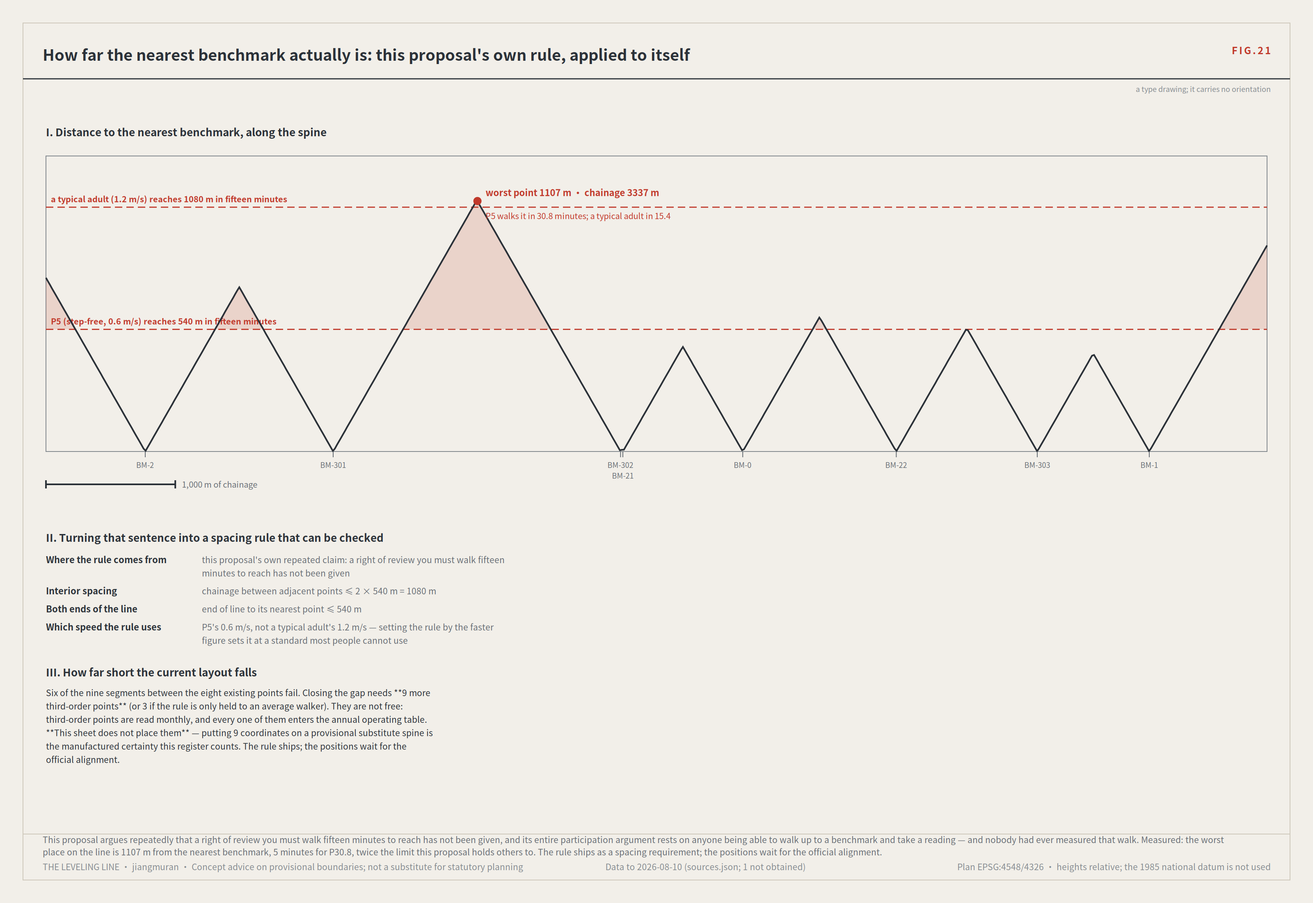
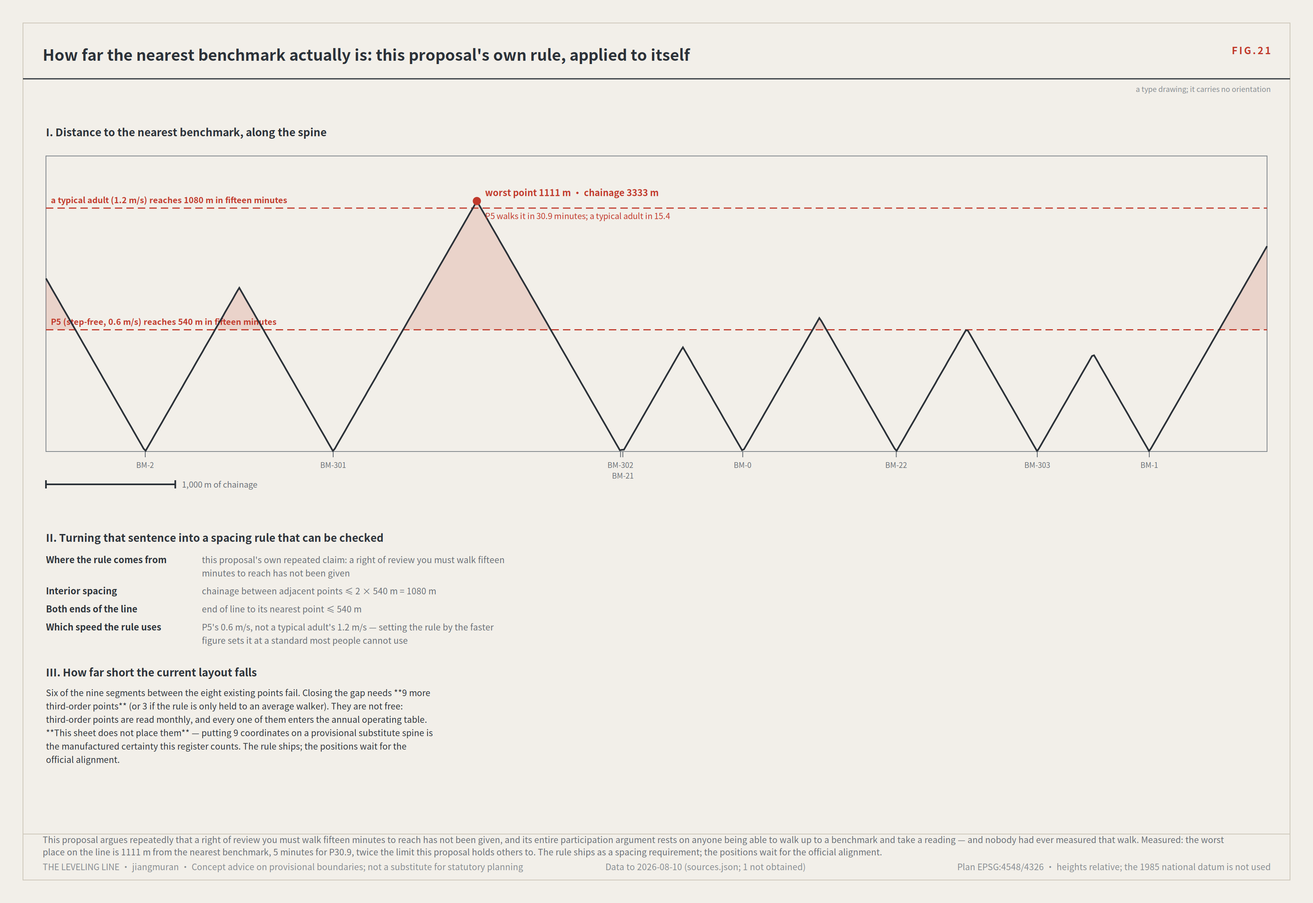
the number this proposal's self-criticism rests on was read off a drawing
FIG.21's headline — the worst walk on the line to the nearest benchmark —
said 1,107 m. FIG.23, built from the same geometry, said 1,111 m. One
measurement, two numbers, and I only saw it by putting the two sheets side
by side.

**FIG.21's was the wrong one.** It took the maximum off the sampled curve
drawn for the profile: 600 samples across 9,443 m is 15.7 m of resolution,
and the peak sits between two of them. The exact answer is analytic — on a
line, the point furthest from every benchmark is either the midpoint of an
interior gap or an end — and it is 1,111.2 m.

Four metres is not the point. **This is the number the whole
self-criticism rests on**, the one that says this proposal fails its own
fifteen-minute rule by a factor of two, and it was read off a drawing
rather than computed, in a package whose central claim is that a figure
nobody can recompute is not evidence. It had spread: two places in the
prose, a row in the drawing index, three PR descriptions.

And the direction is worth recording. **Sampling can only understate a
peak**, so the error made this proposal's self-criticism read slightly
gentler than the truth.

Computed analytically now, swept everywhere, P5's time corrected 30.8 →
30.9 min. FIG.23 asserts it agrees with FIG.21 within half a metre and
refuses the build otherwise — the two sheets found each other's error, so
they now watch each other.

BUILD OK, preflight PASS.

Changed region(s): [[0.3438, 0.1855, 0.5, 0.2473], [0.0312, 0.34, 0.2188, 0.3709], [0.0312, 0.2164, 0.2188, 0.2473]]

diff --git a/submissions/jiangmuran/jingzhang-leveling-line/report/proposal.en.html b/submissions/jiangmuran/jingzhang-leveling-line/report/proposal.en.html
@@ -118,7 +118,7 @@ code {
 <p><strong>Four weeks later, back at BM-0.</strong> The maximum divergence between the three stations is this cycle&#x27;s closure error f. It exceeds this scenario&#x27;s tolerance F. Under rule 4 (defined below in full), <strong>the whole route returns for re-survey and the scenario drops to its non-AI equivalent</strong> — the counter posts the paper pathway and the human referral, and service does not stop. Under rule 5, <strong>the worst-performing station may not simply be corrected on its own.</strong></p>
 <p><strong>What she can do.</strong> She may require one re-survey of the judgement that affected her, and the result is published alongside the original reading, anonymised. That right sits at the third-order point nearest her home: <strong>putting the right of review in a specialist institution fifteen minutes away is the same as not granting it.</strong></p>
 <figure class="proposal-figure"><img src="../assets/figures/reach.en.png" alt="FIG.21 How far the nearest benchmark actually is"><figcaption>FIG.21 How far the nearest benchmark actually is</figcaption></figure>
-<p><strong>That sentence had never been turned on this proposal.</strong> FIG.21 measures the walk along the spine: the worst place on the line is 1,107 m from the nearest benchmark, 30.8 minutes for P5, and six of nine segments fail — <strong>on this rule, this proposal does not meet the standard it holds others to</strong>.</p>
+<p><strong>That sentence had never been turned on this proposal.</strong> FIG.21 measures the walk along the spine: the worst place on the line is 1,111 m from the nearest benchmark, 30.9 minutes for P5, and six of nine segments fail — <strong>on this rule, this proposal does not meet the standard it holds others to</strong>.</p>
 <p><strong>What the reading board says.</strong> On the L2 closure stele this scenario is marked in datum red with the date it was sent back. The device is allowed to look bad: <strong>a civic instrument willing to display its own failures builds more trust than any success narrative.</strong></p>
 <p><strong>How long the way back takes.</strong> Not &quot;fix it and relaunch&quot;. The whole route is re-measured, two consecutive cycles must fall within tolerance because once may be luck, the cause is published, and for an F1 scenario all four review categories must agree unanimously. Afterwards the cycle is halved until two further passes. <strong>Exit is easy and return is slow, deliberately.</strong></p>
 <p>At no point in that day does she need to understand the words &quot;closure error&quot;. She needs to know two things: <strong>that her question was written down</strong>, and <strong>that if the answers do not agree, what stops is the service — not her treatment.</strong></p>
@@ -594,7 +594,7 @@ code {
 <p><strong>One year of running it, costed — all eight benchmarks, row by row.</strong></p>
 <p>Sessions per year are converted from the re-survey cadence each point declares in <code>spatial.json</code>, not typed into this table; hours = sessions × people × the per-session band; money = hours × the rate band plus consumables.</p>
 <div class="proposal-table"><table><thead><tr><th>Benchmark</th><th>Cadence</th><th>Sessions/yr</th><th>Convener</th><th>Paid hours (priced)</th><th>Volunteer hours (unpriced)</th><th>Consumables (CNY/yr)</th><th>Budget line</th></tr></thead><tbody><tr><td>BM-0</td><td>datum</td><td>1</td><td>the implementing body with a licensed surveying unit</td><td>15–24</td><td>—</td><td>600–1500</td><td>municipal facility maintenance — survey and monument upkeep</td></tr><tr><td>BM-1</td><td>first</td><td>1</td><td>the implementing body with a licensed surveying unit</td><td>12–18</td><td>—</td><td>500–1200</td><td>municipal facility maintenance — survey and monument upkeep</td></tr><tr><td>BM-2</td><td>first</td><td>1</td><td>the implementing body with a licensed surveying unit</td><td>12–18</td><td>—</td><td>500–1200</td><td>municipal facility maintenance — survey and monument upkeep</td></tr><tr><td>BM-21</td><td>second</td><td>4</td><td>the park operator</td><td>20–32</td><td>20–32</td><td>300–700</td><td>park operations — scenario open days and tech services</td></tr><tr><td>BM-22</td><td>second</td><td>4</td><td>the park operator</td><td>20–32</td><td>20–32</td><td>300–700</td><td>park operations — scenario open days and tech services</td></tr><tr><td>BM-301</td><td>third</td><td>12</td><td>the sub-district office or residents&#x27; committee</td><td>18–30</td><td>36–60</td><td>200–500</td><td>community governance service procurement — sub-district</td></tr><tr><td>BM-302</td><td>third</td><td>12</td><td>the sub-district office or residents&#x27; committee</td><td>18–30</td><td>36–60</td><td>200–500</td><td>community governance service procurement — sub-district</td></tr><tr><td>BM-303</td><td>third</td><td>12</td><td>the sub-district office or residents&#x27; committee</td><td>18–30</td><td>36–60</td><td>200–500</td><td>community governance service procurement — sub-district</td></tr><tr><td><strong>Total</strong></td><td>—</td><td><strong>47</strong></td><td>—</td><td><strong>133–214</strong></td><td><strong>148–244</strong></td><td><strong>2,800–6,800</strong></td><td>—</td></tr></tbody></table></div>
-<p>The table above prices the network <strong>as laid out</strong>. FIG.21 measures the worst walk on the line at 1,107 m — 30.8 minutes for P5 — and finds six of nine segments failing this proposal&#x27;s own fifteen-minute rule; closing it needs nine more third-order points. <strong>That is not the same table</strong>: a compliant network costs the following again, on the same model. Letting the as-laid-out figure stand in for the compliant one is the substitution this package would flag in someone else&#x27;s.</p>
+<p>The table above prices the network <strong>as laid out</strong>. FIG.21 measures the worst walk on the line at 1,111 m — 30.9 minutes for P5 — and finds six of nine segments failing this proposal&#x27;s own fifteen-minute rule; closing it needs nine more third-order points. <strong>That is not the same table</strong>: a compliant network costs the following again, on the same model. Letting the as-laid-out figure stand in for the compliant one is the substitution this package would flag in someone else&#x27;s.</p>
 <div class="proposal-table"><table><thead><tr><th>To close the gap</th><th></th></tr></thead><tbody><tr><td>More third-order points</td><td>9</td></tr><tr><td>More re-surveys a year</td><td>108</td></tr><tr><td>More paid hours</td><td>162–270</td></tr><tr><td>More annual cost</td><td>CNY 21,240–74,700</td></tr></tbody></table></div>
 <p><strong>Volunteer hours are counted and not priced.</strong> Pricing them would inflate a cost nobody pays; omitting them would pretend they are free. They are the hours this mechanism asks of residents each year, and that is a quantity to see before agreeing to it.</p>
 <p>At CNY 120–260 per hour, paid labour runs CNY 15,960–55,640 a year, or <strong>CNY 18,760–62,440 a year</strong> including consumables — all bands, none of them point estimates.</p>
@@ -753,7 +753,7 @@ code {
 <p><strong>The forms these sheets ship in.</strong> The twenty-one single sheets are also composed into two finished products: <code>drawings/a3-booklet.pdf</code>, an A3 booklet to be read page by page, and <code>drawings/a0-boards.pdf</code>, A0 boards to be read standing up. Two renderings of the text open directly: <code>report/proposal.html</code> is this document as a web page, and <code>visual/index.html</code> is a visual index threading the shipped structured data together; <code>report/narrative.md</code> is a continuous narrative without the tables and gate records, for a reader who wants only the argument. Two data files behind the drawings ship as well: <code>visual/assets/personas.json</code> defines the nine personas and makes every <code>P</code> number in the prose and the scenario cards assertable one by one, and <code>visual/assets/score_correlates.json</code> holds this proposal&#x27;s own statistics on what correlates with score across the field. <strong>Listing them is not housekeeping: a finished product the prose never names is one nobody has been told exists.</strong></p>
 <p>&lt;!-- FIGINDEX:BEGIN --&gt;</p>
 <p>There are 24 sheets, numbered FIG.00 to FIG.23. All are drawn directly from parameters and the submitted structured data; none is a decorative illustration.</p>
-<div class="proposal-table"><table><thead><tr><th>Sheet</th><th>Content</th><th>What to read on it</th></tr></thead><tbody><tr><td>FIG.00</td><td>The leveling line: a city that publishes its own error</td><td>The whole proposal as one line: that red height difference is the closure error, and it is the only thing this proposal asks to be trusted on</td></tr><tr><td>FIG.01</td><td>Overall concept and site cross-check</td><td><strong>The red line</strong> — 412.5 m between the inferred boundary and the surveyed park; the spine, core nodes, seven-class land-use partition and official/provisional status all on one sheet</td></tr><tr><td>FIG.02</td><td>Evidence chain and package: a leveling circuit not yet closed</td><td>The red gap at the left of the circuit is the closure error; the three reading cards below are the measurement of this call itself</td></tr><tr><td>FIG.03</td><td>Three scope levels and network orders</td><td>The nesting of the three levels, and the right-hand column of values this proposal deliberately does not give</td></tr><tr><td>FIG.04</td><td>Three key areas and benchmark layout</td><td>Laid out horizontally per alignment-sheet convention; read the K0–K9 chainage and the positions of the eight tiered points</td></tr><tr><td>FIG.05</td><td>Walking, blue-green and connecting routes</td><td>The direction and run of the two connecting routes, and the tolerance classes at lower right</td></tr><tr><td>FIG.06</td><td>Recomputed metrics and the field census</td><td>The distinction between the three metric classes at left; track coverage and meta-symbol saturation at right</td></tr><tr><td>FIG.07</td><td>Identity: mark, construction and applications</td><td>The mark draws the method: the datum departs, rises, returns — and does not land back on the datum</td></tr><tr><td>FIG.08</td><td>Innovation ecosystem and element mechanisms</td><td>The chain of custody for each element; the red box where the funding row is deliberately left blank; the gap all six cases point at</td></tr><tr><td>FIG.09</td><td>Landmarks, kit of parts, signage syntax and operating cycle</td><td>The actual form of the five standard components; the numbering grammar; a calendar organised by re-survey cycle rather than by festival</td></tr><tr><td>FIG.10</td><td>The benchmark at eye level, and kerb allocation</td><td>A third-order benchmark drawn at human eye height: the stone flush with the ground, the current <code>f ≤ F</code> on the reading plate, the appeal route given as both a QR code and a phone number; the four figures standing there are the people who take the readings, not staffage. The kerb section below <strong>draws the order and not the widths</strong></td></tr><tr><td>FIG.11</td><td>Regional coordination interface: extending the network across jurisdictions</td><td>Every row states not only what is exchanged but <strong>what is explicitly not exchanged</strong> and what must hold before the interface opens; the output of coordination is a number (cross-network closure error), not a statement of intent</td></tr><tr><td>FIG.12</td><td>Four-quadrant pedestrian connection and device queue reservoir at Dazhongsi</td><td>A 1:500 type drawing: holding areas in all four quadrants, the device queue reservoir set behind the building line, and an <strong>as-measured column left deliberately empty</strong> — carrying capacity must be computed on site from measured effective clear width</td></tr><tr><td>FIG.13</td><td>The three key areas in section, at one scale</td><td>One horizontal scale, one datum convention, no vertical exaggeration — and three different problems: reaching a river across a 100% single-use block; step-free continuity over a 1.2 m rise; a station below grade with the device queue held behind the building line. <strong>±0.00 is each area&#x27;s own benchmark, not a shared absolute datum</strong></td></tr><tr><td>FIG.14</td><td>The through-block public route to the Qing river</td><td>FIG.13&#x27;s section states that this edge needs a public route across the R&amp;D block to the levee path, and no drawing showed it. 6.0 m clear, centres at most 250 m apart (four of them, divided into a 939.0 m frontage), <strong>open 24 hours and ungated</strong>; the fallback alignment and the cost of a refusal are drawn, the cost in minutes</td></tr><tr><td>FIG.15</td><td>Phasing: advanced by closure results, not by dates</td><td><code>phasing.geojson</code> has shipped for a long time, been repaired once, and enters the recompute path — <strong>and no drawing had ever shown it</strong>. The three increments, the benchmarks each adds, the condition that opens it (a number, not a year), and <strong>what each phase costs to run</strong>: the near term holds BM-0 alone, on one session a year</td></tr><tr><td>FIG.16</td><td>The benchmark and its reading plate, as a construction detail</td><td>The whole proposal rests on one object and <strong>not one dimension appeared anywhere in the package</strong>. Plan at 1:20, section and elevation at 1:10, nine dimensions each with the reason it is that number; <strong>the one figure left blank is the frost depth D</strong> — a local geotechnical value with no verifiable source here, so the sheet gives the rule and not the number</td></tr><tr><td>FIG.17</td><td>The step-free link from the origin community to the heritage park</td><td>FIG.13&#x27;s section says this place exists to put a 1:12 ramp where the steps are, and no drawing had shown it. One design decision: <strong>the ramp sits on the desire line and the steps beside it</strong> — the usual arrangement offsets the ramp and charges its user twice that offset every trip, while nobody on the steps walks a metre further</td></tr><tr><td>FIG.18</td><td>Maintenance: putting the wear on the parts that can be swapped</td><td>A monthly re-survey is a maintenance problem first. The sheet turns on one asymmetry: <strong>the stone is the only part that must never be replaced and the only one a person cannot carry</strong> (about 230 kg) — a benchmark that moves is not the same benchmark — so the wear is placed on the face, post, seat and guidance strip; the last block states what happens when a stone is lost anyway</td></tr><tr><td>FIG.19</td><td>Monuments beside heritage fabric: the no-drilling construction and its setback rule</td><td>The call is for a belt along a hundred-year-old railway and this proposal&#x27;s central act is sinking concrete. Three constructions chosen by distance from the fabric, with the cost stated: <strong>without excavation there is no foundation below the frost line, so the surface-set marker cannot carry first- or second-order duty</strong>. Where d is measured from depends on the official heritage layer — absent here, and recorded as a gap</td></tr><tr><td>FIG.20</td><td>Reading after dark, without lighting the benchmark</td><td>Three third-order points are read monthly by residents, and many of those days fall after dark. A lamp is the obvious answer and the wrong one: <strong>a dead lamp leaves a plate that looks maintained and cannot be read</strong> — a measurement whose failure is invisible. The face is retroreflective and the reader brings the light; a dirty face looks dirty, in daylight</td></tr><tr><td>FIG.21</td><td>How far the nearest benchmark actually is: this proposal&#x27;s own rule, applied to itself</td><td>This proposal argues repeatedly that review you must walk fifteen minutes to reach has not been given — and <strong>nobody had measured the walk</strong>. Measured: the worst place on the line is 1,107 m from the nearest benchmark, <strong>30.8 minutes for P5, twice the limit this proposal holds others to</strong>, and six of nine segments fail. The rule ships as a spacing requirement; the positions wait for the official alignment</td></tr><tr><td>FIG.22</td><td>Winter: water, ice, and two of this package&#x27;s rules in collision</td><td>The three community points are read monthly, which means read in January. KIT-01 requires the stone flush with no trip hazard and FIG.16 gave that ±5 mm — <strong>and a mark set flush into level paving sits in whatever the paving collects: the tolerance that makes it safe in September is what makes it dangerous in January</strong>. The answer is a local high point, not a ring</td></tr><tr><td>FIG.23</td><td>Finding the nearest benchmark: which way, and how far</td><td>Markers appear only inside the stretches FIG.21 marks as failing — 48 of them at 150 m spacing, on the existing KIT-04, nothing new built. The face answers four things: direction, distance, P5&#x27;s time, and the id. <strong>And it states what signage cannot do — it does not make 1,111 m near; this is mitigation, not the fix</strong></td></tr></tbody></table></div>
+<div class="proposal-table"><table><thead><tr><th>Sheet</th><th>Content</th><th>What to read on it</th></tr></thead><tbody><tr><td>FIG.00</td><td>The leveling line: a city that publishes its own error</td><td>The whole proposal as one line: that red height difference is the closure error, and it is the only thing this proposal asks to be trusted on</td></tr><tr><td>FIG.01</td><td>Overall concept and site cross-check</td><td><strong>The red line</strong> — 412.5 m between the inferred boundary and the surveyed park; the spine, core nodes, seven-class land-use partition and official/provisional status all on one sheet</td></tr><tr><td>FIG.02</td><td>Evidence chain and package: a leveling circuit not yet closed</td><td>The red gap at the left of the circuit is the closure error; the three reading cards below are the measurement of this call itself</td></tr><tr><td>FIG.03</td><td>Three scope levels and network orders</td><td>The nesting of the three levels, and the right-hand column of values this proposal deliberately does not give</td></tr><tr><td>FIG.04</td><td>Three key areas and benchmark layout</td><td>Laid out horizontally per alignment-sheet convention; read the K0–K9 chainage and the positions of the eight tiered points</td></tr><tr><td>FIG.05</td><td>Walking, blue-green and connecting routes</td><td>The direction and run of the two connecting routes, and the tolerance classes at lower right</td></tr><tr><td>FIG.06</td><td>Recomputed metrics and the field census</td><td>The distinction between the three metric classes at left; track coverage and meta-symbol saturation at right</td></tr><tr><td>FIG.07</td><td>Identity: mark, construction and applications</td><td>The mark draws the method: the datum departs, rises, returns — and does not land back on the datum</td></tr><tr><td>FIG.08</td><td>Innovation ecosystem and element mechanisms</td><td>The chain of custody for each element; the red box where the funding row is deliberately left blank; the gap all six cases point at</td></tr><tr><td>FIG.09</td><td>Landmarks, kit of parts, signage syntax and operating cycle</td><td>The actual form of the five standard components; the numbering grammar; a calendar organised by re-survey cycle rather than by festival</td></tr><tr><td>FIG.10</td><td>The benchmark at eye level, and kerb allocation</td><td>A third-order benchmark drawn at human eye height: the stone flush with the ground, the current <code>f ≤ F</code> on the reading plate, the appeal route given as both a QR code and a phone number; the four figures standing there are the people who take the readings, not staffage. The kerb section below <strong>draws the order and not the widths</strong></td></tr><tr><td>FIG.11</td><td>Regional coordination interface: extending the network across jurisdictions</td><td>Every row states not only what is exchanged but <strong>what is explicitly not exchanged</strong> and what must hold before the interface opens; the output of coordination is a number (cross-network closure error), not a statement of intent</td></tr><tr><td>FIG.12</td><td>Four-quadrant pedestrian connection and device queue reservoir at Dazhongsi</td><td>A 1:500 type drawing: holding areas in all four quadrants, the device queue reservoir set behind the building line, and an <strong>as-measured column left deliberately empty</strong> — carrying capacity must be computed on site from measured effective clear width</td></tr><tr><td>FIG.13</td><td>The three key areas in section, at one scale</td><td>One horizontal scale, one datum convention, no vertical exaggeration — and three different problems: reaching a river across a 100% single-use block; step-free continuity over a 1.2 m rise; a station below grade with the device queue held behind the building line. <strong>±0.00 is each area&#x27;s own benchmark, not a shared absolute datum</strong></td></tr><tr><td>FIG.14</td><td>The through-block public route to the Qing river</td><td>FIG.13&#x27;s section states that this edge needs a public route across the R&amp;D block to the levee path, and no drawing showed it. 6.0 m clear, centres at most 250 m apart (four of them, divided into a 939.0 m frontage), <strong>open 24 hours and ungated</strong>; the fallback alignment and the cost of a refusal are drawn, the cost in minutes</td></tr><tr><td>FIG.15</td><td>Phasing: advanced by closure results, not by dates</td><td><code>phasing.geojson</code> has shipped for a long time, been repaired once, and enters the recompute path — <strong>and no drawing had ever shown it</strong>. The three increments, the benchmarks each adds, the condition that opens it (a number, not a year), and <strong>what each phase costs to run</strong>: the near term holds BM-0 alone, on one session a year</td></tr><tr><td>FIG.16</td><td>The benchmark and its reading plate, as a construction detail</td><td>The whole proposal rests on one object and <strong>not one dimension appeared anywhere in the package</strong>. Plan at 1:20, section and elevation at 1:10, nine dimensions each with the reason it is that number; <strong>the one figure left blank is the frost depth D</strong> — a local geotechnical value with no verifiable source here, so the sheet gives the rule and not the number</td></tr><tr><td>FIG.17</td><td>The step-free link from the origin community to the heritage park</td><td>FIG.13&#x27;s section says this place exists to put a 1:12 ramp where the steps are, and no drawing had shown it. One design decision: <strong>the ramp sits on the desire line and the steps beside it</strong> — the usual arrangement offsets the ramp and charges its user twice that offset every trip, while nobody on the steps walks a metre further</td></tr><tr><td>FIG.18</td><td>Maintenance: putting the wear on the parts that can be swapped</td><td>A monthly re-survey is a maintenance problem first. The sheet turns on one asymmetry: <strong>the stone is the only part that must never be replaced and the only one a person cannot carry</strong> (about 230 kg) — a benchmark that moves is not the same benchmark — so the wear is placed on the face, post, seat and guidance strip; the last block states what happens when a stone is lost anyway</td></tr><tr><td>FIG.19</td><td>Monuments beside heritage fabric: the no-drilling construction and its setback rule</td><td>The call is for a belt along a hundred-year-old railway and this proposal&#x27;s central act is sinking concrete. Three constructions chosen by distance from the fabric, with the cost stated: <strong>without excavation there is no foundation below the frost line, so the surface-set marker cannot carry first- or second-order duty</strong>. Where d is measured from depends on the official heritage layer — absent here, and recorded as a gap</td></tr><tr><td>FIG.20</td><td>Reading after dark, without lighting the benchmark</td><td>Three third-order points are read monthly by residents, and many of those days fall after dark. A lamp is the obvious answer and the wrong one: <strong>a dead lamp leaves a plate that looks maintained and cannot be read</strong> — a measurement whose failure is invisible. The face is retroreflective and the reader brings the light; a dirty face looks dirty, in daylight</td></tr><tr><td>FIG.21</td><td>How far the nearest benchmark actually is: this proposal&#x27;s own rule, applied to itself</td><td>This proposal argues repeatedly that review you must walk fifteen minutes to reach has not been given — and <strong>nobody had measured the walk</strong>. Measured: the worst place on the line is 1,111 m from the nearest benchmark, <strong>30.9 minutes for P5, twice the limit this proposal holds others to</strong>, and six of nine segments fail. The rule ships as a spacing requirement; the positions wait for the official alignment</td></tr><tr><td>FIG.22</td><td>Winter: water, ice, and two of this package&#x27;s rules in collision</td><td>The three community points are read monthly, which means read in January. KIT-01 requires the stone flush with no trip hazard and FIG.16 gave that ±5 mm — <strong>and a mark set flush into level paving sits in whatever the paving collects: the tolerance that makes it safe in September is what makes it dangerous in January</strong>. The answer is a local high point, not a ring</td></tr><tr><td>FIG.23</td><td>Finding the nearest benchmark: which way, and how far</td><td>Markers appear only inside the stretches FIG.21 marks as failing — 48 of them at 150 m spacing, on the existing KIT-04, nothing new built. The face answers four things: direction, distance, P5&#x27;s time, and the id. <strong>And it states what signage cannot do — it does not make 1,111 m near; this is mitigation, not the fix</strong></td></tr></tbody></table></div>
 <p>&lt;!-- FIGINDEX:END --&gt;</p>
 <h3>What a reviewer can check without contacting the author</h3>
 <p>Every item can be completed independently:</p>

diff --git a/submissions/jiangmuran/jingzhang-leveling-line/report/proposal.html b/submissions/jiangmuran/jingzhang-leveling-line/report/proposal.html
@@ -118,7 +118,7 @@ code {
 <p><strong>四周后，回到 BM-0 复算。</strong> 三站读数的最大偏离就是这一期的闭合差 f。它超过了这条场景的限差 F。按机制第 4 条（完整定义见后文），<strong>整段路线退回复测，该场景降级为无AI等价路径</strong>——窗口挂出纸质流程与人工转介，服务不中断。按第 5 条，<strong>不允许只去修正表现最差的那一站</strong>。</p>
 <p><strong>她能做什么。</strong> 她可以就影响自己的那一次判断，要求一次复测；结果与原读数一并公开（脱敏）。这条权利落在她家最近的三等点上——<strong>把复核权放在需要走十五分钟才能到的专门机构，等于没有给。</strong></p>
 <figure class="proposal-figure"><img src="../assets/figures/reach.png" alt="FIG.21 走到最近水准点要多久：本方案对自己的那条规则"><figcaption>FIG.21 走到最近水准点要多久：本方案对自己的那条规则</figcaption></figure>
-<p><strong>这句话从没有被用在本方案自己身上。</strong> FIG.21 沿主脊量了这段路：全线最远处距最近水准点 1,107 m，对 P5 是 30.8 分钟，九个区段中六个不满足——<strong>本方案在这一条上，没有达到它要求别人达到的标准</strong>。</p>
+<p><strong>这句话从没有被用在本方案自己身上。</strong> FIG.21 沿主脊量了这段路：全线最远处距最近水准点 1,111 m，对 P5 是 30.9 分钟，九个区段中六个不满足——<strong>本方案在这一条上，没有达到它要求别人达到的标准</strong>。</p>
 <p><strong>读数牌上会写什么。</strong> L2 闭合差碑上，这条场景以基准红标出，并写明退回日期。它允许自己难看：<strong>一座敢公开显示自身失败的城市装置，比任何成功叙事更能建立信任。</strong></p>
 <p><strong>恢复要多久。</strong> 不是修好就上。整段重测、连续两期在限差以内（一次可能是运气）、原因公开；F1 类还须四类复核主体一致同意。恢复之后周期减半，直到再连续两期合格。<strong>退回容易、恢复缓慢，是刻意的不对称。</strong></p>
 <p>这一天里没有任何一个环节需要她理解「闭合差」这三个字。她只需要知道两件事：<strong>她的那次提问会被记下来</strong>，以及<strong>如果结论对不上，停的是这个服务，不是她的就医。</strong></p>
@@ -610,7 +610,7 @@ code {
 <p><strong>一年的运营成本与人员：八个水准点逐点列出。</strong></p>
 <p>每行的年次数由 <code>spatial.json</code> 中该点自己声明的复测周期换算，未在此处手写；工时 = 年次数 × 人数 × 每次工时区间；金额 = 工时 × 费率区间 + 耗材区间。</p>
 <div class="proposal-table"><table><thead><tr><th>水准点</th><th>复测周期</th><th>年次数</th><th>召集方</th><th>专业工时（计价）</th><th>志愿工时（不计价）</th><th>耗材（元/年）</th><th>预算科目</th></tr></thead><tbody><tr><td>BM-0</td><td>年度</td><td>1</td><td>项目实施主体 + 具测绘资质单位</td><td>15–24</td><td>—</td><td>600–1500</td><td>市政设施维护——测绘与标石维护</td></tr><tr><td>BM-1</td><td>年度</td><td>1</td><td>项目实施主体 + 具测绘资质单位</td><td>12–18</td><td>—</td><td>500–1200</td><td>市政设施维护——测绘与标石维护</td></tr><tr><td>BM-2</td><td>年度</td><td>1</td><td>项目实施主体 + 具测绘资质单位</td><td>12–18</td><td>—</td><td>500–1200</td><td>市政设施维护——测绘与标石维护</td></tr><tr><td>BM-21</td><td>季度</td><td>4</td><td>园区运营方</td><td>20–32</td><td>20–32</td><td>300–700</td><td>园区运营——场景开放与科技服务</td></tr><tr><td>BM-22</td><td>季度</td><td>4</td><td>园区运营方</td><td>20–32</td><td>20–32</td><td>300–700</td><td>园区运营——场景开放与科技服务</td></tr><tr><td>BM-301</td><td>月度</td><td>12</td><td>属地街道 / 社区居委会</td><td>18–30</td><td>36–60</td><td>200–500</td><td>社区治理服务采购——属地街道</td></tr><tr><td>BM-302</td><td>月度</td><td>12</td><td>属地街道 / 社区居委会</td><td>18–30</td><td>36–60</td><td>200–500</td><td>社区治理服务采购——属地街道</td></tr><tr><td>BM-303</td><td>月度</td><td>12</td><td>属地街道 / 社区居委会</td><td>18–30</td><td>36–60</td><td>200–500</td><td>社区治理服务采购——属地街道</td></tr><tr><td><strong>合计</strong></td><td>—</td><td><strong>47</strong></td><td>—</td><td><strong>133–214</strong></td><td><strong>148–244</strong></td><td><strong>2,800–6,800</strong></td><td>—</td></tr></tbody></table></div>
-<p>上表为现状布点的年运营成本。FIG.21 量出全线最远处距最近水准点 1,107 m，对 P5 是 30.8 分钟，九个区段中六个不满足本方案自己的十五分钟规则；补齐需新增 9 个三等点。那不是同一张表：补齐后的网络按同一模型另需下列一笔。把现状成本当作合规网络的成本，是本包会在别人包里指出的那种替换。</p>
+<p>上表为现状布点的年运营成本。FIG.21 量出全线最远处距最近水准点 1,111 m，对 P5 是 30.9 分钟，九个区段中六个不满足本方案自己的十五分钟规则；补齐需新增 9 个三等点。那不是同一张表：补齐后的网络按同一模型另需下列一笔。把现状成本当作合规网络的成本，是本包会在别人包里指出的那种替换。</p>
 <div class="proposal-table"><table><thead><tr><th>补齐所需</th><th>数量</th></tr></thead><tbody><tr><td>新增三等点</td><td>9 个</td></tr><tr><td>新增年复测</td><td>108 次</td></tr><tr><td>新增专业工时</td><td>162–270 h</td></tr><tr><td>新增年运营</td><td>21,240–74,700 元</td></tr></tbody></table></div>
 <p><strong>志愿工时照列，不计价。</strong> 折成钱会让成本看起来更高，且那笔钱没有人支付；不折成钱又不列出来，等于假装它免费。它是这套机制每年向社区索取的小时数——在同意之前，应该先看见它。</p>
 <p>按 120–260 元/工时，专业人工 15,960–55,640 元/年，含耗材合计 <strong>18,760–62,440 元/年</strong>——全部为区间，不是点估计。</p>
@@ -788,7 +788,7 @@ code {
 <p><strong>这些图纸随包以哪几种形式存在。</strong> 二十一张单页同时被排进两份成品：<code>drawings/a3-booklet.pdf</code>（A3 文册，逐页阅读）与 <code>drawings/a0-boards.pdf</code>（A0 展板，站着看）。正文另有两种可直接打开的渲染：<code>report/proposal.html</code> 是本文的网页版，<code>visual/index.html</code> 是把随包结构化数据串起来的可视索引；<code>report/narrative.md</code> 是不含表格与门禁记录的连续叙述版，供只想读论证的人。图纸背后的两份数据文件也随包：<code>visual/assets/personas.json</code> 定义九个画像并使正文与场景卡里每一个 P 编号可被逐个断言，<code>visual/assets/score_correlates.json</code> 保存本方案对全场评分相关性的自采统计。<strong>列出它们不是清单癖：一件没有被正文指名的成品，等于没有人被告知它存在。</strong></p>
 <p>&lt;!-- FIGINDEX:BEGIN --&gt;</p>
 <p>本方案共二十四张图纸，FIG.00–FIG.23 连续编号；均由参数与提交的结构化数据直接绘制，非示意性配图：</p>
-<div class="proposal-table"><table><thead><tr><th>图号</th><th>内容</th><th>该图要读什么</th></tr></thead><tbody><tr><td>FIG.00</td><td>京张水准线：一座公开自己误差的城市</td><td>全案压缩成一条线：那道红色高差就是闭合差，也是本方案唯一要求被信任的东西</td></tr><tr><td>FIG.01</td><td>总体概念与场地复核</td><td><strong>那条红线</strong>——推定边界与实测公园相距 412.5 m；主轴、核心节点、七类用地剖分与 official/provisional 状态同图呈现</td></tr><tr><td>FIG.02</td><td>证据链与提交包：一条尚未闭合的水准回路</td><td>回路左侧的红色缺口即闭合差；下方三张读数卡是对本次征集自身的实测</td></tr><tr><td>FIG.03</td><td>三层范围与水准网层级</td><td>三层嵌套关系，以及右栏「本方案刻意不给出的数值」</td></tr><tr><td>FIG.04</td><td>三处重点区与水准点布设</td><td>按展线惯例横向展开，读 K0–K9 里程与八个分级测点的位置</td></tr><tr><td>FIG.05</td><td>慢行、蓝绿与附合路线</td><td>两条附合路线的走向与方向，以及右下的限差分级</td></tr><tr><td>FIG.06</td><td>指标复算与全场普查</td><td>左栏三类指标的区别；右栏赛道覆盖与元符号饱和度</td></tr><tr><td>FIG.07</td><td>视觉识别：标志、构造与应用</td><td>标志本身画的是方法：基准线出发、抬升、回落，而没有落回基准</td></tr><tr><td>FIG.08</td><td>AI创新生态图谱与要素机制</td><td>要素的保管链；「资金」一栏刻意留空的红框；六案例共同指向的空缺</td></tr><tr><td>FIG.09</td><td>地标、组件库、导视编号与运营周期</td><td>五类标准件的实际形态；编号语法；以复测周期而非节庆组织的日历</td></tr><tr><td>FIG.10</td><td>街道上的水准点与路缘分配</td><td>三等水准点画到人眼高度：标石与地面齐平、读数牌上是当期 <code>f ≤ F</code>、申诉入口给出扫码与电话两条路径；站着的四位是取读数的人，不是配景。下半幅的路缘剖面<strong>只画顺序不画宽度</strong></td></tr><tr><td>FIG.11</td><td>区域协同接口：把水准网外延为区域水准网</td><td>每一行除了「交换什么」，还写明<strong>「明确不交换什么」</strong>与「接口开启的前置」；协同的产出是一个数（跨网闭合差），不是一份意向</td></tr><tr><td>FIG.12</td><td>大钟寺路口四象限步行连通与设备排队储备空间</td><td>1:500 类型图：四象限等候区、退到建筑线后的设备排队储备空间、以及<strong>刻意留空的实测栏</strong>——承载力须以实测有效净宽为输入现场计算</td></tr><tr><td>FIG.13</td><td>三处重点区同尺度剖面</td><td>同一水平比例、同一基准约定、无垂直放大——三幅要解决的问题各不相同：穿过 100% 单一用途地块到达一条河、1.2 m 高差上的无台阶连续、地下车站与退到建筑线后的设备排队。<strong>±0.00 是各区自己的水准点，不是共用绝对高程</strong></td></tr><tr><td>FIG.14</td><td>众智园临河公共通道</td><td>FIG.13 的剖面说这里要有一条穿过研发地块到堤顶路的公共通道，而包内没有一张图画过它。净宽 6.0 m、中心间距上限 250 m（按 939.0 m 前沿除得 4 条）、<strong>24 小时不设门禁</strong>；备选线位与被拒的代价一并画出，代价以分钟计</td></tr><tr><td>FIG.15</td><td>分期实施：按闭合结果推进</td><td><code>phasing.geojson</code> 随包已久、修过一次、进入复算路径——<strong>而此前没有任何一张图画过它</strong>。三期增量、各期新增测点、开启条件（是一个数不是一个年份），以及<strong>每一期建成后的年运营成本</strong>：近期只含 BM-0，全年一次复测</td></tr><tr><td>FIG.16</td><td>水准点标石与读数牌构造详图</td><td>全案压在一个物件上，而<strong>包内此前没有出现过一个尺寸</strong>。1:20 平面、1:10 剖面与立面，九项尺寸各写明「为什么是这个数」；<strong>唯一不填的是标准冻深 D</strong>——那是当地岩土数值，包内无可核来源，图上给规则不给数</td></tr><tr><td>FIG.17</td><td>原点社区—遗址公园无台阶连接</td><td>FIG.13 的剖面说这处存在的理由是把台阶换成 1:12 坡道，而没有一张图画过它。设计决定只有一条：<strong>坡道设在期望线上，台阶并在旁边</strong>——常见做法把坡道挪开，用它的人每次多走两倍偏移量，而走台阶的人一步也不少</td></tr><tr><td>FIG.18</td><td>维护与更换：把磨损放在可换的件上</td><td>每月一次的复测先是维护问题。全图围绕一处不对称：<strong>标石是唯一不该被更换的件，也是唯一一人搬不动的件（约 230 kg）</strong>——移动过的水准点不再是同一个点，所以磨损被安排在面板、支架、座具与引导带上；末栏写明标石灭失后如何处置</td></tr><tr><td>FIG.19</td><td>邻遗址水准点：不钻孔的构造与退距规则</td><td>征集写的是百年铁路沿线，而本方案的核心动作是埋混凝土。三种构造按距本体的距离选取，并写明代价：<strong>不开挖就做不到冻深以下，因此表面式标志不得承担一等、二等职能</strong>。d 的起量线取决于官方文保图层——包内没有，已登记为数据缺口</td></tr><tr><td>FIG.20</td><td>夜间读数：不给水准点装灯</td><td>三个三等点由居民每月复测，相当一部分复测日入夜后进行。装灯是显而易见的答案，也是错的：<strong>灯坏了以后牌面看上去完好却读不出</strong>——一个看不见自己失败的测量。改用反光膜，光源由读者自带；脏了就是脏的，白天就能看见</td></tr><tr><td>FIG.21</td><td>走到最近水准点要多久：本方案对自己的那条规则</td><td>本方案反复主张「走十五分钟才能到的复核权，等于没有给」，而<strong>这段路从没有人量过</strong>。量出来：全线最远处距最近水准点 1,107 m，对 P5 是 30.8 分钟——<strong>是本方案要求别人达到的两倍</strong>，九个区段中六个不满足。规则写成间距要求随包，位置留给官方线位</td></tr><tr><td>FIG.22</td><td>冬季：水、冰，与两条自相冲突的规则</td><td>三个三等点每月复测，也就是一月也要读。KIT-01 要求标石齐平、不构成绊倒风险，FIG.16 给了 ±5 mm 公差——<strong>而齐平嵌进平铺装的标志就坐在积水里：九月让它安全的那条公差，一月让它危险</strong>。解法是让标石成为局部高点，不是加环</td></tr><tr><td>FIG.23</td><td>找到最近的水准点：往哪边，还有多远</td><td>导视只设在 FIG.21 判为违规的区段内，每 150 m 一处共 48 处，用既有 KIT-04，不新增构筑物。牌面答四件事：方向、距离、P5 时间、编号。<strong>并写明导视做不到的事——它不会把 1,111 m 变近，这是缓解不是修复</strong></td></tr></tbody></table></div>
+<div class="proposal-table"><table><thead><tr><th>图号</th><th>内容</th><th>该图要读什么</th></tr></thead><tbody><tr><td>FIG.00</td><td>京张水准线：一座公开自己误差的城市</td><td>全案压缩成一条线：那道红色高差就是闭合差，也是本方案唯一要求被信任的东西</td></tr><tr><td>FIG.01</td><td>总体概念与场地复核</td><td><strong>那条红线</strong>——推定边界与实测公园相距 412.5 m；主轴、核心节点、七类用地剖分与 official/provisional 状态同图呈现</td></tr><tr><td>FIG.02</td><td>证据链与提交包：一条尚未闭合的水准回路</td><td>回路左侧的红色缺口即闭合差；下方三张读数卡是对本次征集自身的实测</td></tr><tr><td>FIG.03</td><td>三层范围与水准网层级</td><td>三层嵌套关系，以及右栏「本方案刻意不给出的数值」</td></tr><tr><td>FIG.04</td><td>三处重点区与水准点布设</td><td>按展线惯例横向展开，读 K0–K9 里程与八个分级测点的位置</td></tr><tr><td>FIG.05</td><td>慢行、蓝绿与附合路线</td><td>两条附合路线的走向与方向，以及右下的限差分级</td></tr><tr><td>FIG.06</td><td>指标复算与全场普查</td><td>左栏三类指标的区别；右栏赛道覆盖与元符号饱和度</td></tr><tr><td>FIG.07</td><td>视觉识别：标志、构造与应用</td><td>标志本身画的是方法：基准线出发、抬升、回落，而没有落回基准</td></tr><tr><td>FIG.08</td><td>AI创新生态图谱与要素机制</td><td>要素的保管链；「资金」一栏刻意留空的红框；六案例共同指向的空缺</td></tr><tr><td>FIG.09</td><td>地标、组件库、导视编号与运营周期</td><td>五类标准件的实际形态；编号语法；以复测周期而非节庆组织的日历</td></tr><tr><td>FIG.10</td><td>街道上的水准点与路缘分配</td><td>三等水准点画到人眼高度：标石与地面齐平、读数牌上是当期 <code>f ≤ F</code>、申诉入口给出扫码与电话两条路径；站着的四位是取读数的人，不是配景。下半幅的路缘剖面<strong>只画顺序不画宽度</strong></td></tr><tr><td>FIG.11</td><td>区域协同接口：把水准网外延为区域水准网</td><td>每一行除了「交换什么」，还写明<strong>「明确不交换什么」</strong>与「接口开启的前置」；协同的产出是一个数（跨网闭合差），不是一份意向</td></tr><tr><td>FIG.12</td><td>大钟寺路口四象限步行连通与设备排队储备空间</td><td>1:500 类型图：四象限等候区、退到建筑线后的设备排队储备空间、以及<strong>刻意留空的实测栏</strong>——承载力须以实测有效净宽为输入现场计算</td></tr><tr><td>FIG.13</td><td>三处重点区同尺度剖面</td><td>同一水平比例、同一基准约定、无垂直放大——三幅要解决的问题各不相同：穿过 100% 单一用途地块到达一条河、1.2 m 高差上的无台阶连续、地下车站与退到建筑线后的设备排队。<strong>±0.00 是各区自己的水准点，不是共用绝对高程</strong></td></tr><tr><td>FIG.14</td><td>众智园临河公共通道</td><td>FIG.13 的剖面说这里要有一条穿过研发地块到堤顶路的公共通道，而包内没有一张图画过它。净宽 6.0 m、中心间距上限 250 m（按 939.0 m 前沿除得 4 条）、<strong>24 小时不设门禁</strong>；备选线位与被拒的代价一并画出，代价以分钟计</td></tr><tr><td>FIG.15</td><td>分期实施：按闭合结果推进</td><td><code>phasing.geojson</code> 随包已久、修过一次、进入复算路径——<strong>而此前没有任何一张图画过它</strong>。三期增量、各期新增测点、开启条件（是一个数不是一个年份），以及<strong>每一期建成后的年运营成本</strong>：近期只含 BM-0，全年一次复测</td></tr><tr><td>FIG.16</td><td>水准点标石与读数牌构造详图</td><td>全案压在一个物件上，而<strong>包内此前没有出现过一个尺寸</strong>。1:20 平面、1:10 剖面与立面，九项尺寸各写明「为什么是这个数」；<strong>唯一不填的是标准冻深 D</strong>——那是当地岩土数值，包内无可核来源，图上给规则不给数</td></tr><tr><td>FIG.17</td><td>原点社区—遗址公园无台阶连接</td><td>FIG.13 的剖面说这处存在的理由是把台阶换成 1:12 坡道，而没有一张图画过它。设计决定只有一条：<strong>坡道设在期望线上，台阶并在旁边</strong>——常见做法把坡道挪开，用它的人每次多走两倍偏移量，而走台阶的人一步也不少</td></tr><tr><td>FIG.18</td><td>维护与更换：把磨损放在可换的件上</td><td>每月一次的复测先是维护问题。全图围绕一处不对称：<strong>标石是唯一不该被更换的件，也是唯一一人搬不动的件（约 230 kg）</strong>——移动过的水准点不再是同一个点，所以磨损被安排在面板、支架、座具与引导带上；末栏写明标石灭失后如何处置</td></tr><tr><td>FIG.19</td><td>邻遗址水准点：不钻孔的构造与退距规则</td><td>征集写的是百年铁路沿线，而本方案的核心动作是埋混凝土。三种构造按距本体的距离选取，并写明代价：<strong>不开挖就做不到冻深以下，因此表面式标志不得承担一等、二等职能</strong>。d 的起量线取决于官方文保图层——包内没有，已登记为数据缺口</td></tr><tr><td>FIG.20</td><td>夜间读数：不给水准点装灯</td><td>三个三等点由居民每月复测，相当一部分复测日入夜后进行。装灯是显而易见的答案，也是错的：<strong>灯坏了以后牌面看上去完好却读不出</strong>——一个看不见自己失败的测量。改用反光膜，光源由读者自带；脏了就是脏的，白天就能看见</td></tr><tr><td>FIG.21</td><td>走到最近水准点要多久：本方案对自己的那条规则</td><td>本方案反复主张「走十五分钟才能到的复核权，等于没有给」，而<strong>这段路从没有人量过</strong>。量出来：全线最远处距最近水准点 1,111 m，对 P5 是 30.9 分钟——<strong>是本方案要求别人达到的两倍</strong>，九个区段中六个不满足。规则写成间距要求随包，位置留给官方线位</td></tr><tr><td>FIG.22</td><td>冬季：水、冰，与两条自相冲突的规则</td><td>三个三等点每月复测，也就是一月也要读。KIT-01 要求标石齐平、不构成绊倒风险，FIG.16 给了 ±5 mm 公差——<strong>而齐平嵌进平铺装的标志就坐在积水里：九月让它安全的那条公差，一月让它危险</strong>。解法是让标石成为局部高点，不是加环</td></tr><tr><td>FIG.23</td><td>找到最近的水准点：往哪边，还有多远</td><td>导视只设在 FIG.21 判为违规的区段内，每 150 m 一处共 48 处，用既有 KIT-04，不新增构筑物。牌面答四件事：方向、距离、P5 时间、编号。<strong>并写明导视做不到的事——它不会把 1,111 m 变近，这是缓解不是修复</strong></td></tr></tbody></table></div>
 <p>&lt;!-- FIGINDEX:END --&gt;</p>
 <figure class="proposal-figure"><img src="../assets/figures/mobility-bluegreen.png" alt="FIG.05 慢行、蓝绿与附合路线图"><figcaption>FIG.05 慢行、蓝绿与附合路线图</figcaption></figure>
 <figure class="proposal-figure"><img src="../assets/figures/metrics-evidence.png" alt="FIG.06 指标复算与闭合差证据图"><figcaption>FIG.06 指标复算与闭合差证据图</figcaption></figure>

diff --git a/submissions/jiangmuran/jingzhang-leveling-line/proposal.en.md b/submissions/jiangmuran/jingzhang-leveling-line/proposal.en.md
@@ -51,7 +51,7 @@ Rules are easy to write. You find out whether they work by writing somebody's mo
 
 ![FIG.21 How far the nearest benchmark actually is](assets/figures/reach.en.png)
 
-**That sentence had never been turned on this proposal.** FIG.21 measures the walk along the spine: the worst place on the line is 1,107 m from the nearest benchmark, 30.8 minutes for P5, and six of nine segments fail — **on this rule, this proposal does not meet the standard it holds others to**.
+**That sentence had never been turned on this proposal.** FIG.21 measures the walk along the spine: the worst place on the line is 1,111 m from the nearest benchmark, 30.9 minutes for P5, and six of nine segments fail — **on this rule, this proposal does not meet the standard it holds others to**.
 
 **What the reading board says.** On the L2 closure stele this scenario is marked in datum red with the date it was sent back. The device is allowed to look bad: **a civic instrument willing to display its own failures builds more trust than any success narrative.**
 
@@ -1184,7 +1184,7 @@ Sessions per year are converted from the re-survey cadence each point declares i
 | BM-303 | third | 12 | the sub-district office or residents' committee | 18–30 | 36–60 | 200–500 | community governance service procurement — sub-district |
 | **Total** | — | **47** | — | **133–214** | **148–244** | **2,800–6,800** | — |
 
-The table above prices the network **as laid out**. FIG.21 measures the worst walk on the line at 1,107 m — 30.8 minutes for P5 — and finds six of nine segments failing this proposal's own fifteen-minute rule; closing it needs nine more third-order points. **That is not the same table**: a compliant network costs the following again, on the same model. Letting the as-laid-out figure stand in for the compliant one is the substitution this package would flag in someone else's.
+The table above prices the network **as laid out**. FIG.21 measures the worst walk on the line at 1,111 m — 30.9 minutes for P5 — and finds six of nine segments failing this proposal's own fifteen-minute rule; closing it needs nine more third-order points. **That is not the same table**: a compliant network costs the following again, on the same model. Letting the as-laid-out figure stand in for the compliant one is the substitution this package would flag in someone else's.
 
 | To close the gap | |
 |---|---|
@@ -1615,7 +1615,7 @@ There are 24 sheets, numbered FIG.00 to FIG.23. All are drawn directly from para
 | FIG.18 | Maintenance: putting the wear on the parts that can be swapped | A monthly re-survey is a maintenance problem first. The sheet turns on one asymmetry: **the stone is the only part that must never be replaced and the only one a person cannot carry** (about 230 kg) — a benchmark that moves is not the same benchmark — so the wear is placed on the face, post, seat and guidance strip; the last block states what happens when a stone is lost anyway |
 | FIG.19 | Monuments beside heritage fabric: the no-drilling construction and its setback rule | The call is for a belt along a hundred-year-old railway and this proposal's central act is sinking concrete. Three constructions chosen by distance from the fabric, with the cost stated: **without excavation there is no foundation below the frost line, so the surface-set marker cannot carry first- or second-order duty**. Where d is measured from depends on the official heritage layer — absent here, and recorded as a gap |
 | FIG.20 | Reading after dark, without lighting the benchmark | Three third-order points are read monthly by residents, and many of those days fall after dark. A lamp is the obvious answer and the wrong one: **a dead lamp leaves a plate that looks maintained and cannot be read** — a measurement whose failure is invisible. The face is retroreflective and the reader brings the light; a dirty face looks dirty, in daylight |
-| FIG.21 | How far the nearest benchmark actually is: this proposal's own rule, applied to itself | This proposal argues repeatedly that review you must walk fifteen minutes to reach has not been given — and **nobody had measured the walk**. Measured: the worst place on the line is 1,107 m from the nearest benchmark, **30.8 minutes for P5, twice the limit this proposal holds others to**, and six of nine segments fail. The rule ships as a spacing requirement; the positions wait for the official alignment |
+| FIG.21 | How far the nearest benchmark actually is: this proposal's own rule, applied to itself | This proposal argues repeatedly that review you must walk fifteen minutes to reach has not been given — and **nobody had measured the walk**. Measured: the worst place on the line is 1,111 m from the nearest benchmark, **30.9 minutes for P5, twice the limit this proposal holds others to**, and six of nine segments fail. The rule ships as a spacing requirement; the positions wait for the official alignment |
 | FIG.22 | Winter: water, ice, and two of this package's rules in collision | The three community points are read monthly, which means read in January. KIT-01 requires the stone flush with no trip hazard and FIG.16 gave that ±5 mm — **and a mark set flush into level paving sits in whatever the paving collects: the tolerance that makes it safe in September is what makes it dangerous in January**. The answer is a local high point, not a ring |
 | FIG.23 | Finding the nearest benchmark: which way, and how far | Markers appear only inside the stretches FIG.21 marks as failing — 48 of them at 150 m spacing, on the existing KIT-04, nothing new built. The face answers four things: direction, distance, P5's time, and the id. **And it states what signage cannot do — it does not make 1,111 m near; this is mitigation, not the fix** |
 
